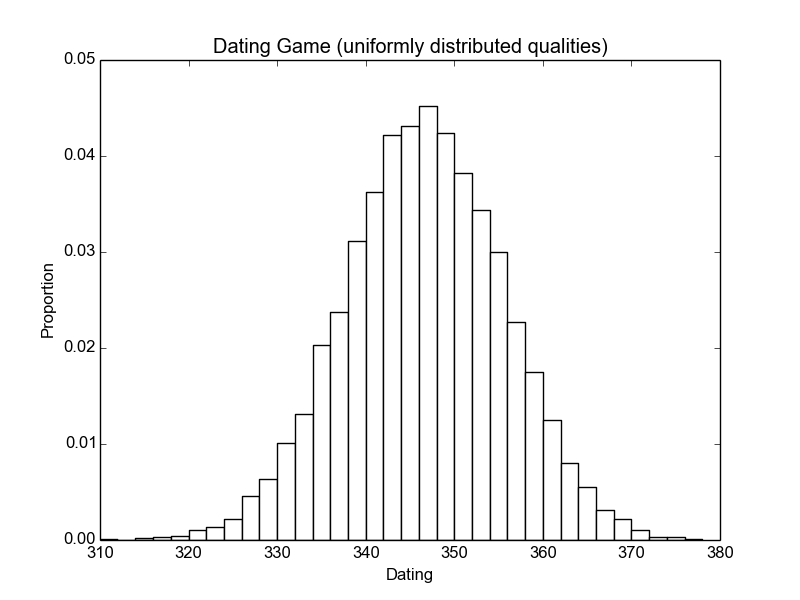
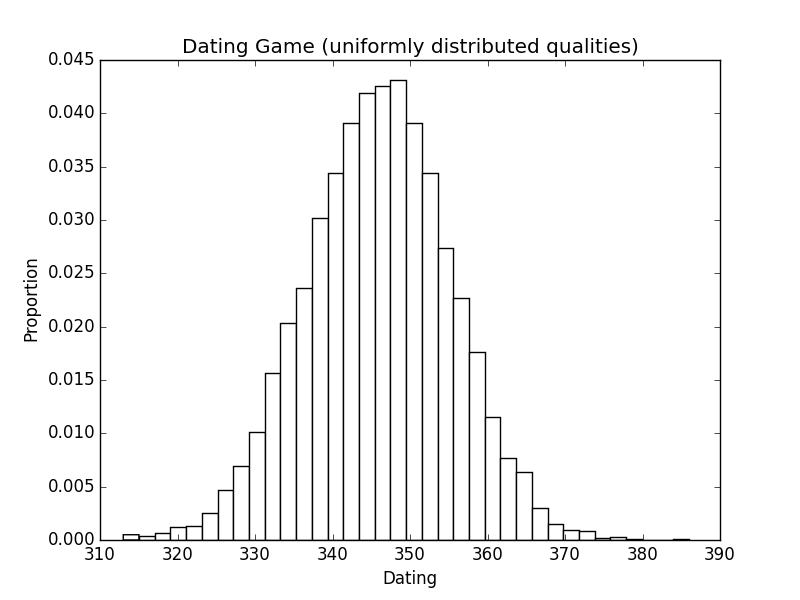
seeded everything + moved bootstrap into it's own module

diff --git a/src/sim4/coin_toss_03.py b/src/sim4/coin_toss_03.py
@@ -2,7 +2,7 @@ import sys
 import random
 
 
-def simulation(heads, tosses, bias):
+def simulation(heads, bias):
     total = 0
     count = 0
 
@@ -22,17 +22,14 @@ def simulation(heads, tosses, bias):
 
 
 
-def print_results(heads, tosses, counter, iterations):
+def print_results(heads, counter, iterations):
     print()
     print('Coin Toss')
     print()
     print('  iterations: %8d' % (iterations))
     print('       heads: %8d' % (heads))
     print()
-    if tosses < 10:
-        print('    E[X > %d]: %8.5f' % (tosses, counter / float(iterations)))
-    else:
-        print('   E[X > %2d]: %8.5f' % (tosses, counter / float(iterations)))
+    print('Expected number of tosses to get %d heads in a row: %8.5f' % (heads, counter / float(iterations)))
     print()
 
 
@@ -40,18 +37,19 @@ def print_results(heads, tosses, counter, iterations):
 def main(argv):
     iterations = int(argv[0])
     heads      = int(argv[1])
-    tosses     = int(argv[2])
 
     if len(argv) == 4:
-        bias = float(argv[3])
+        bias = float(argv[2])
     else:
         bias = 0.5
 
+    random.seed(1337)
+
     counter = 0
     for _ in range(iterations):
-        counter += simulation(heads, tosses, bias)
+        counter += simulation(heads, bias)
 
-    print_results(heads, tosses, counter, iterations)
+    print_results(heads, counter, iterations)
 
 
 

diff --git a/src/sim5/quality_01.py b/src/sim5/quality_01.py
@@ -7,8 +7,8 @@ import matplotlib.pyplot as plt
 
 def simulation(men, women, pool_size):
     while len(men) > 0 and max(men) > min(women):
-        random.shuffle(men)
-        random.shuffle(women)
+        np.random.shuffle(men)
+        np.random.shuffle(women)
         for man, woman in zip(men, women):
             if man > woman:
                 men.remove(man)
@@ -50,6 +50,8 @@ def plot_results(results, pool_size):
 def main(argv):
     pool_size  = int(argv[0])
     iterations = int(argv[1])
+
+    np.random.seed(1337)
 
     results = []
     for _ in range(iterations):

diff --git a/src/sim5/quality_02.py b/src/sim5/quality_02.py
@@ -7,8 +7,8 @@ import matplotlib.pyplot as plt
 
 def simulation(men, women, pool_size):
     while len(men) > 0 and max(men) > min(women):
-        random.shuffle(men)
-        random.shuffle(women)
+        np.random.shuffle(men)
+        np.random.shuffle(women)
         for man, woman in zip(men, women):
             if man > woman:
                 men.remove(man)
@@ -50,6 +50,8 @@ def plot_results(results, pool_size):
 def main(argv):
     pool_size  = int(argv[0])
     iterations = int(argv[1])
+
+    np.random.seed(1337)
 
     results = []
     for _ in range(iterations):

diff --git a/src/sim5/quality_03.py b/src/sim5/quality_03.py
@@ -7,8 +7,8 @@ import matplotlib.pyplot as plt
 
 def simulation(men, women, pool_size):
     while len(men) > 0 and max(men) > min(women):
-        random.shuffle(men)
-        random.shuffle(women)
+        np.random.shuffle(men)
+        np.random.shuffle(women)
         for man, woman in zip(men, women):
             if man > woman:
                 men.remove(man)
@@ -50,6 +50,8 @@ def plot_results(results, pool_size):
 def main(argv):
     pool_size  = int(argv[0])
     iterations = int(argv[1])
+
+    np.random.seed(1337)
 
     results = []
     for _ in range(iterations):

diff --git a/src/sim5/dating_01.py b/src/sim5/dating_01.py
@@ -9,8 +9,8 @@ def simulation(men, women, pool_size):
     paired = 0
 
     while len(men) > 0 and max(men) > min(women):
-        random.shuffle(men)
-        random.shuffle(women)
+        np.random.shuffle(men)
+        np.random.shuffle(women)
         for man, woman in zip(men, women):
             if man > woman:
                 paired += 1
@@ -53,6 +53,8 @@ def plot_results(results, pool_size):
 def main(argv):
     pool_size  = int(argv[0])
     iterations = int(argv[1])
+
+    np.random.seed(1337)
 
     results = []
     for _ in range(iterations):

diff --git a/src/sim5/dating_02.py b/src/sim5/dating_02.py
@@ -9,8 +9,8 @@ def simulation(men, women, pool_size):
     paired = 0
 
     while len(men) > 0 and max(men) > min(women):
-        random.shuffle(men)
-        random.shuffle(women)
+        np.random.shuffle(men)
+        np.random.shuffle(women)
         for man, woman in zip(men, women):
             if man > woman:
                 paired += 1
@@ -53,6 +53,8 @@ def plot_results(results, pool_size):
 def main(argv):
     pool_size  = int(argv[0])
     iterations = int(argv[1])
+
+    np.random.seed(1337)
 
     results = []
     for _ in range(iterations):

diff --git a/src/sim5/dating_03.py b/src/sim5/dating_03.py
@@ -9,8 +9,8 @@ def simulation(men, women, pool_size):
     paired = 0
 
     while len(men) > 0 and max(men) > min(women):
-        random.shuffle(men)
-        random.shuffle(women)
+        np.random.shuffle(men)
+        np.random.shuffle(women)
         for man, woman in zip(men, women):
             if man > woman:
                 paired += 1
@@ -53,6 +53,8 @@ def plot_results(results, pool_size):
 def main(argv):
     pool_size  = int(argv[0])
     iterations = int(argv[1])
+
+    np.random.seed(1337)
 
     results = []
     for _ in range(iterations):

diff --git a/src/sim7/bootstrap_01.py b/src/sim7/bootstrap_01.py
@@ -68,7 +68,7 @@ def plot_results(samples, size, iterations, statistic):
     plt.title('Bootstrapped Samples (%s)' % (statistic))
     plt.xlabel('Samples')
     plt.ylabel('Proportion')
-    plt.savefig('./src/sim6/images/bootstrap_%s_%s_%s.png' % (statistic, size, iterations), format = 'png')
+    plt.savefig('./src/sim7/images/bootstrap_%s_%s_%s.png' % (statistic, size, iterations), format = 'png')
     plt.close()
 
 

diff --git a/src/sim6/gamble_01.py b/src/sim6/gamble_01.py
@@ -2,7 +2,6 @@ import sys
 import random
 
 import numpy             as np
-import pandas            as pd
 import matplotlib.pyplot as plt
 
 
@@ -25,6 +24,7 @@ def main(argv):
     margin     = int(argv[2])
     target     = initial + margin
 
+    np.random.seed(1337)
 
     results        = np.zeros((iterations, 3))
     results[:, 0]  = np.random.sample(iterations)

diff --git a/src/sim6/random_walk_01.py b/src/sim6/random_walk_01.py
@@ -2,7 +2,6 @@ import sys
 import random
 
 import numpy             as np
-import pandas            as pd
 import matplotlib.pyplot as plt
 
 
@@ -37,6 +36,8 @@ def plot_results(results, iterations):
 def main(argv):
     iterations = int(argv[0])
     initial    = int(argv[1])
+
+    random.seed(1337)
 
     results    = simulation(initial, iterations)
 

diff --git a/src/sim2/monte_hall.py b/src/sim2/monte_hall.py
@@ -38,6 +38,8 @@ def print_results(counter1, counter2, iterations):
 def main(argv):
     iterations = int(argv[0])
 
+    random.seed(1337)
+
     counter1 = 0
     counter2 = 0
     for _ in range(iterations):

diff --git a/src/sim3/birthday_paradox_02.py b/src/sim3/birthday_paradox_02.py
@@ -60,6 +60,8 @@ def main(argv):
     iterations = int(argv[0])
     people     = int(argv[1])
 
+    random.seed(1337)
+
     numbers = []
     for _ in range(iterations):
         numbers.append(simulation())
